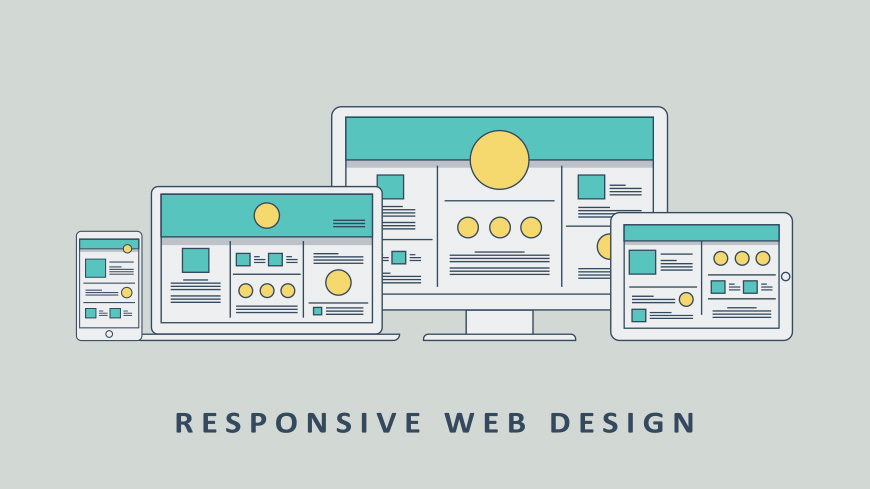
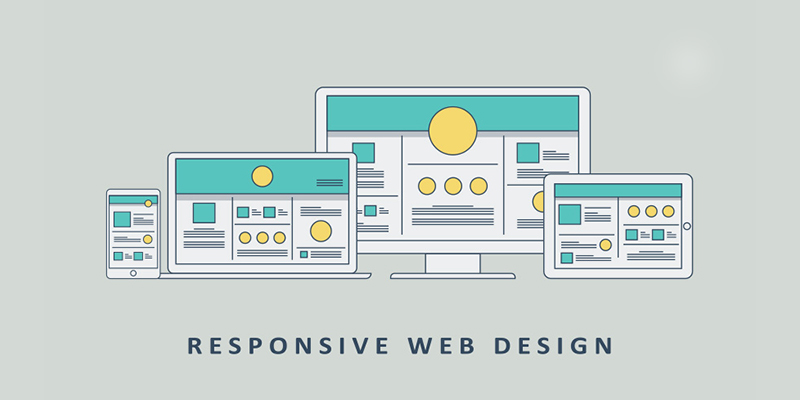
Alle billeder er justeret og forside er rykket til renes portfolie

diff --git a/mystyle.css b/mystyle.css
@@ -23,12 +23,22 @@ header {
     box-sizing: border-box;
 }
 header .logo {
+    text-decoration: none;
     color: whitesmoke;
     height: 50px;
     line-height: 50px;
     font-size: 24px;
     float: left;
     font-weight: bold;
+}
+.logo a:visited {
+    color: whitesmoke;
+}
+.logo a:hover {
+    color: #B8BEC6;
+}
+.logo a:active {
+    color: whitesmoke;
 }
 header nav {
     float: right;
@@ -43,7 +53,7 @@ header nav ul li {
     position: relative;
 }
 header nav ul li.sub-menu:before {
-    content: '\f107';
+    content: '\f0d7';
     font-family: fontAwesome;
     position: absolute;
     line-height: 50px;
@@ -51,7 +61,7 @@ header nav ul li.sub-menu:before {
     right: 5px;
 }
 header nav ul li.active.sub-menu:before {
-    content: '\f106'
+    content: '\f0d8'
 }
 header nav ul li ul {
     position: absolute;

diff --git a/minnav.html b/minnav.html
@@ -1,8 +1,7 @@
         <header>
-            <div class="logo">Renés portfolio</div>
+            <div class="logo"><a href="../index">Renés portfolio</a></div>
             <nav>
                 <ul>
-                    <li><a href="../index.php">Forside</a></li>
                     <li class="sub-menu"><a href="#">Webudvikling</a>
                         <ul>
                             <li><a hred="#">HTML</a></li>

diff --git a/Design/design.php b/Design/design.php
@@ -17,7 +17,7 @@
             <section id="webudvikling">
                 <div class="emnecontainer">
                     <div class="thumbcontainer">
-                        <img src="thumbnails/Illustrator.jpg" alt="Illustrator logo på en computer skærm">
+                        <img src="thumbnails/Illustrator.png" alt="Illustrator logo på en computer skærm">
                     </div>
                     <div class="tekstcontainer">
                         <h2>Illustrator</h2>
@@ -50,7 +50,7 @@
             <section id="kommunikation">
                 <div class="emnecontainer">
                     <div class="thumbcontainer">
-                        <img src="thumbnails/farver.jpg" alt="En vivl af alle alle tertriære farver">
+                        <img src="thumbnails/farver.png" alt="En vivl af alle alle tertriære farver">
                      </div>
                      <div class="tekstcontainer">
                         <h2>Farver</h2>   
@@ -61,7 +61,7 @@
             <section id="virksomhed">
                 <div class="emnecontainer">
                     <div class="thumbcontainer">
-                        <img src="thumbnails/typografi.jpeg" alt="billede af en tekst med ordet typography">
+                        <img src="thumbnails/typografi.png" alt="billede af en tekst med ordet typography">
                     </div>
                     <div class="tekstcontainer">
                         <h2>Typografi</h2>
@@ -72,7 +72,7 @@
             <section id="projekter">
                 <div class="emnecontainer">
                     <div class="thumbcontainer">
-                        <img src="thumbnails/gestalt-principles.jpg" alt="Illustation af gestaltlovene i teksten gestalt">                
+                        <img src="thumbnails/gestalt-principles.png" alt="Illustation af gestaltlovene i teksten gestalt">                
                     </div>
                     <div class="tekstcontainer">
                         <h2>Gestaltlovene</h2>
@@ -83,7 +83,7 @@
             <section id="omsiden">
                 <div class="emnecontainer">
                     <div class="thumbcontainer">
-                        <img src="thumbnails/rapid%20video.jpg" alt="Illustation af et videokamera">
+                        <img src="thumbnails/rapid%20video.png" alt="Illustation af et videokamera">
                     </div>
                     <div class="tekstcontainer">
                         <h2>Rapid video</h2>

diff --git a/Webudvikling/webudvikling.php b/Webudvikling/webudvikling.php
@@ -39,7 +39,7 @@
             <section id="interface">
                  <div class="emnecontainer">
                      <div class="thumbcontainer">
-                        <img src="Thumbnails/server_klient.jpeg" alt="Illustration server/klient forholdet">
+                        <img src="Thumbnails/server_klient.png" alt="Illustration server/klient forholdet">
                      </div>
                     <div class="tekstcontainer">
                         <h2>Webserver og FTP</h2>
@@ -72,7 +72,7 @@
             <section id="projekter">
                 <div class="emnecontainer">
                     <div class="thumbcontainer">
-                        <img src="Thumbnails/SEO.jpeg" alt="Illustation af SEO">                
+                        <img src="Thumbnails/SEO.png" alt="Illustation af SEO">                
                     </div>
                     <div class="tekstcontainer">
                         <h2>SEO, Seach Engine Optimization</h2>

diff --git a/Index.php b/Index.php
@@ -18,7 +18,7 @@
                 <a href="Webudvikling/webudvikling.php">
                     <div class="emnecontainer">
                         <div class="thumbcontainer">
-                            <img src="Billeder/webudvikling.jpg" alt="Billede af HTML kode">
+                            <img src="Billeder/web-page_1300-265.jpg" alt="Illustration af HTML kode">
                         </div>
                         <div class="tekstcontainer">
                             <h2>Webudvikling</h2>
